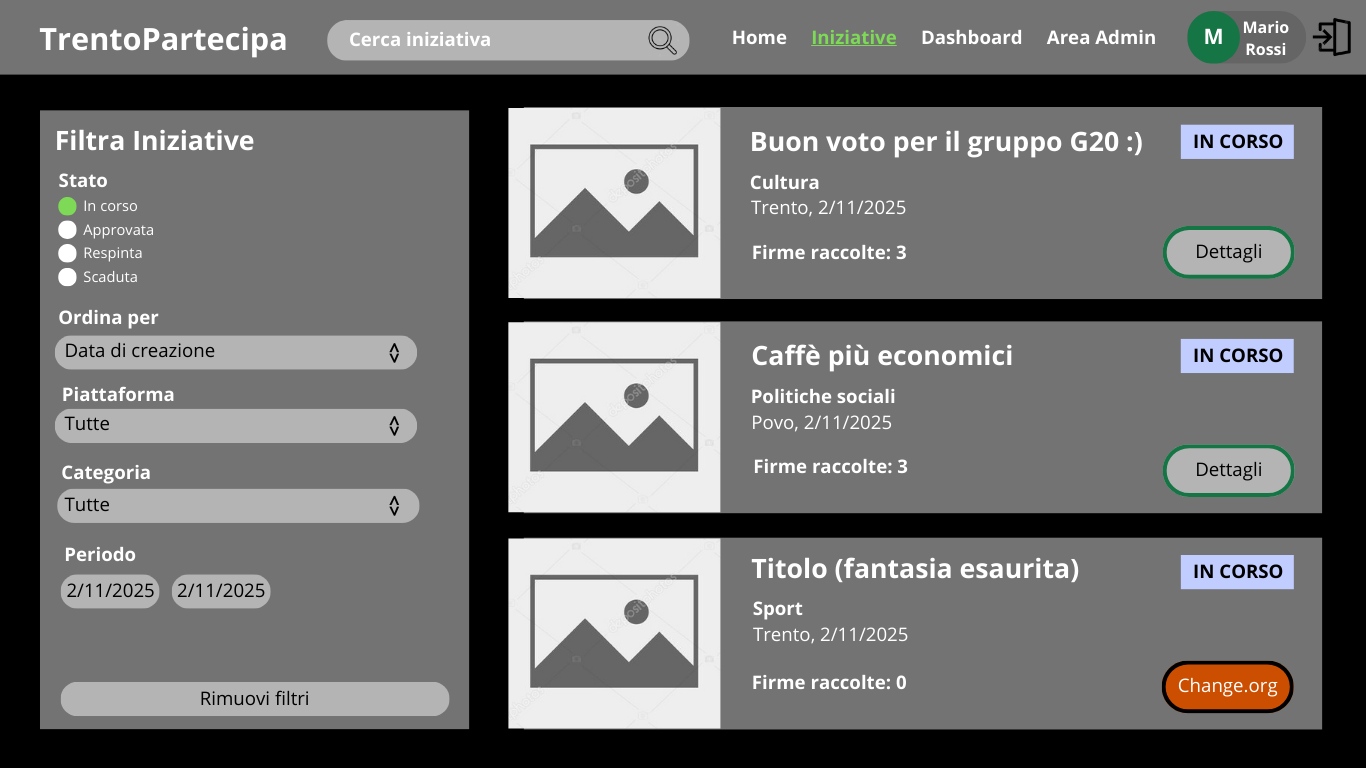
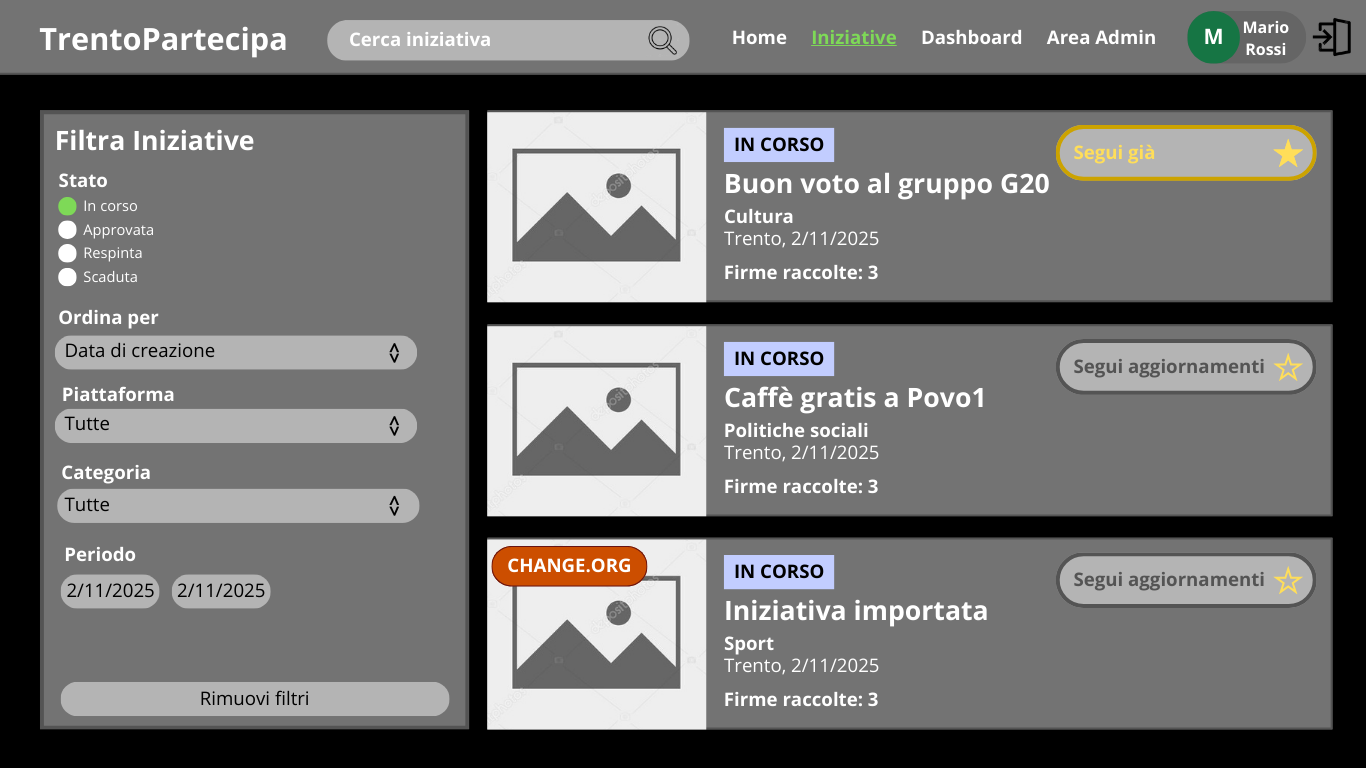
Aggiornato il D1 con le immagini del design del frontend e la correzione delle loro descrizioni

Changed region(s): [[0.0307, 0.125, 0.9839, 0.9688]]

diff --git a/deliverable/D1/sections/DesingFrontEnd.tex b/deliverable/D1/sections/DesingFrontEnd.tex
@@ -4,27 +4,36 @@
 \newline
 Tutte questi mockup rispecchiano il requisito non funzionale di \textbf{Usabilità (RNF\ref{rnf:usabilita}):} l'utilizzo del sistema risulta intuitivo in quanto ogni azione può essere compiuta premendo tasti con indicazioni esplicite sulla loro funzionalità. Inoltre, viene adottato lo stesso insieme di colori per tutte le pagine, offrendo un'esperienza uniforme all'utente. 
 
-\subsection{Schermata Home}
+\subsection{Header}
 \begin{figure}[H]
-    \centering    
-    \includegraphics[width=0.9\linewidth]{img/HomePage.png}
-    \caption{Schermata Home dell'applicazione}
-    \label{fig:home}
+    \centering
+    \includegraphics[width=0.9\linewidth]{img/Header.png}
+    \caption{Header di un cittadino amministratore autenticato}
+    \label{fig:header}
 \end{figure}
-Nella Figura \ref{fig:home} è riportato un mockup di quella che sarà la pagina iniziale dell'applicazione. Essa sarà visibile a tutti gli utenti, autenticati e non, cittadini e amministratori, con le opportune differenze. In questo esempio si assume che l'utente sia autenticato e che abbia sia i privilegi da cittadino che quelli da amministratore. È importante specificare i cambiamenti negli altri casi:
+Nella Figura \ref{fig:header} è riportato un mockup dell'header delle varie pagine dell'applicazione. Poiché viene riportato in tutte le figure successive, è rilevante specificare che il suo aspetto può variare in base all'utente: in questo esempio, infatti, assumiamo che l'utente sia autenticato e abbia sia i privilegi di cittadino che quelli da amministratore. Nella maggioranza dei successivi esempi manterremo questa ipotesi.Negli altri casi:
 \begin{itemize}
     \item Se l'utente non è autenticato, visualizza solo le sezioni "Home" e "Iniziative" nella barra in alto. Inoltre, al posto dell'icona del suo profilo, del suo nome e del pulsante di logout visualizza un pulsante con la scritta "Accedi".
     \item Se l'utente autenticato non è amministratore, non visualizza la sezione "Area Admin".
     \item Se l'utente autenticato non è cittadino, non visualizza la sezione "Dashboard".
-    \item Se l'utente non è autenticato o non ha privilegi da cittadino, non può selezionare un'opzione del sondaggio e non può creare un'iniziativa. Se tenta di compiere queste azioni viene reindirizzato alla schermata di login (Figura \ref{fig:schermata_login})
 \end{itemize}
-Detto ciò, la schermata si riferisce ai seguenti requisiti:
+
+
+\subsection{Home Page}
+\begin{figure}[H]
+    \centering    
+    \includegraphics[width=0.9\linewidth]{img/SchermataHome.png}
+    \caption{Schermata Home dell'applicazione}
+    \label{fig:home}
+\end{figure}
+Nella Figura \ref{fig:home} è riportato un mockup di quella che sarà la pagina iniziale dell'applicazione. Essa sarà visibile a tutti gli utenti, autenticati e non, cittadini e amministratori. La schermata si riferisce ai seguenti requisiti funzionali:
+
 \begin{itemize}
     \item \textbf{RF\ref{rf:login}: Login -} Quando l'utente non è autenticato, in alto a destra è presente il pulsante per fare il login, che porta alla schermata di login mostrata in Figura \ref{fig:schermata_login}.
     \item \textbf{RF\ref{rf:consultazione_iniziative}: Consultazione della lista di iniziative -} Nella Home sono visibili delle iniziative di tendenza, ossia quelle in corso e con il maggior numero di firme. La lista completa di iniziative è visibile nella pagina dedicata (Figura \ref{fig:schermata_iniziative}). 
     \item \textbf{RF\ref{rf:logout}: Logout -} Quando l'utente è autenticato, in alto a destra è presente il pulsante per fare il logout.
-    \item \textbf{RF\ref{rf:voto}: Votazione del bilancio partecipativo -} All'interno della pagina è visibile il bilancio partecipativo attualmente in corso, con tanto di data di scadenza e opzioni. Il cittadino autenticato sarà in grado di interagire con esso selezionando una delle opzioni votabili.
-    \item \textbf{RF\ref{rf:creazione_iniziativa}: Creazione di una iniziativa -} A destra è presente un pulsante che porta il cittadino autenticato alla compilazione dei campi per creare una nuova iniziativa (Figura \ref{fig:schermata_creaz_iniz}).
+    \item \textbf{RF\ref{rf:creazione_iniziativa}: Creazione di una iniziativa -} All'interno della pagina è presente un pulsante che conduce il cittadino autenticato alla compilazione dei campi per creare una nuova iniziativa (Figura \ref{fig:schermata_creaz_iniz}). Se l'utente non è autenticato o non ha privilegi da cittadino, il tentativo di creare un'iniziativa lo conduce alla schermata di login (Figura \ref{fig:schermata_login}).
+    \item \textbf{RF\ref{rf:voto}: Votazione del bilancio partecipativo -} All'interno della pagina è visibile il bilancio partecipativo attualmente in corso, con tanto di data di scadenza e opzioni. Il cittadino autenticato sarà in grado di interagire con esso selezionando una delle opzioni votabili. Se l'utente non è autenticato o non ha privilegi da cittadino, il tentativo di votare lo conduce alla schermata di login (Figura \ref{fig:schermata_login}).
 \end{itemize}
 
 \subsection{Schermata di login}
@@ -34,26 +43,26 @@ Detto ciò, la schermata si riferisce ai seguenti requisiti:
     \caption{Schermata di login}
     \label{fig:schermata_login}
 \end{figure}
-Nella Figura \ref{fig:schermata_login} è riportato un mockup della schermata di accesso all'applicazione, dove l'utente potrà scegliere se eseguire l'accesso tramite SPID o CIE. La schermata si riferisce a \textbf{RF\ref{rf:login}: Login}. Notare che poiché il login viene fatto da un utente non autenticato, l'header riporta le sezioni "Home", "Iniziative" e il pulsante "Accedi" che è stato clickato per raggiungere questa schermata.
+Nella Figura \ref{fig:schermata_login} è riportato un mockup della schermata di accesso all'applicazione, dove l'utente potrà scegliere se eseguire l'accesso tramite SPID o CIE. La schermata si riferisce a \textbf{RF\ref{rf:login}: Login}. Notare che poiché il login viene fatto da un utente non autenticato, l'header riporta le sezioni "Home", "Iniziative" e il pulsante "Accedi" che è stato clickato per raggiungere questa schermata. Se l'utente sta compiendo il suo primo accesso, viene condotto alla schermata in Figura \ref{fig:schermataprofilo}.
 
+\newpage
 \subsection{Schermata di creazione di un nuovo profilo}
 \begin{figure}[H]
     \centering
-    \includegraphics[width=0.7\linewidth]{img/CreaProfilo1.png}
-    \label{fig:schermataprofilo1}
+    \includegraphics[width=0.8\linewidth]{img/SchermataCreaProfilo1.png}
 \end{figure}
 \begin{figure}[H]
     \centering
-    \includegraphics[width=0.7\linewidth]{img/CreaProfilo2.png}
+    \includegraphics[width=0.8\linewidth]{img/SchermataCreaProfilo2.png}
     \caption{Schermata di creazione di un nuovo profilo}
-    \label{fig:schermataprofilo2}
+    \label{fig:schermataprofilo}
 \end{figure}
-La Figura \ref{fig:schermataprofilo2} mostra le due fasi di creazione di un nuovo profilo (\textbf{RF\ref{rf:creazione_profilo}: Creazione profilo al primo accesso}). Una volta autenticato tramite SPID/CIE, all'utente non resta che inserire e confermare il suo recapito mail.
+La Figura \ref{fig:schermataprofilo} mostra le due fasi di creazione di un nuovo profilo (\textbf{RF\ref{rf:creazione_profilo}: Creazione profilo al primo accesso}). Una volta autenticato tramite SPID/CIE, all'utente non resta che inserire e confermare il suo recapito mail.
 
 \subsection{Schermata di creazione di una nuova iniziativa}
 \begin{figure}[H]
     \centering
-    \includegraphics[width=0.9\linewidth]{img/CreaIniziativa.png}
+    \includegraphics[width=0.9\linewidth]{img/SchermataCreaIniziativa.png}
     \caption{Schermata di creazione di una nuova iniziativa}
     \label{fig:schermata_creaz_iniz}
 \end{figure}
@@ -66,51 +75,61 @@ Nella Figura \ref{fig:schermata_creaz_iniz} è riportato un mockup della scherma
     \caption{Schermata di visualizzazione delle iniziative}
     \label{fig:schermata_iniziative}
 \end{figure}
-Nella Figura \ref{fig:schermata_iniziative} viene riportato il mockup della pagina di consultazione e ricerca delle iniziative.
+Nella Figura \ref{fig:schermata_iniziative} viene riportato un mockup della pagina di consultazione e ricerca delle iniziative.
 \begin{itemize}
     \item \textbf{RF\ref{rf:consultazione_iniziative}: Consultazione della lista di iniziative -} Da questa pagina ogni utente può visualizzare la lista completa di iniziative presenti nell'applicazione, riportanti delle informazioni base quali titolo, stato, numero di firme, ecc. A sinistra sono presenti le varie opzioni di filtraggio e ordinamento e in alto, nell'header, è presente una barra di ricerca per la ricerca di iniziative tramite parole chiave.
-    \item \textbf{RF\ref{rf:ciclo_vita_stati}: Ciclo di vita degli stati -} Ogni iniziativa riporta una label che ne indica lo stato attuale (in corso, respinta, approvata o scaduta). I possibili valori dello stato sono anche criteri di ricerca nei filtri. 
-    \item \textbf{RF\ref{rf:import_dati_esterni}: Importazione dati esterni -} Le iniziative importate da fonti esterne presentano, al posto del pulsante "Dettagli" per aprire la pagina di dettaglio, un pulsante che reindirizza alla pagina di dettaglio nel sito di provenienza, dove l'utente potrà eventualmente firmarla come specificato in RF\ref{rf:firma}.
+    \item \textbf{RF\ref{rf:tracciamento_stato}: Tracciamento stato -} Ogni iniziativa riporta un pulsante che permette all'utente di seguirla, ossia di aggiungerla alla propria dashboard personale per tracciarne lo stato. Se l'utente non è autenticato o non ha i privilegi da cittadino, il tentativo di seguire un'iniziativa lo conduce alla schermata di login (Figura \ref{fig:schermata_login}). 
+    \item \textbf{RF\ref{rf:import_dati_esterni}: Importazione dati esterni -} Le iniziative importate da fonti esterne presentano una label che ne indica esplicitamente la piattaforma di provenienza.    
+    \item \textbf{RF\ref{rf:ciclo_vita_stati}: Ciclo di vita degli stati -} Ogni iniziativa riporta una label che ne indica lo stato attuale ("In corso", "Respinta", "Approvata" o "Scaduta"). I possibili valori dello stato sono anche criteri di ricerca nei filtri. 
 \end{itemize}
+Selezionando una delle iniziative, l'utente viene condotto alla schermata in Figura \ref{fig:schermata_iniziativasingola}.
 
 
 \subsection{Schermata di visualizzazione della singola iniziativa}
 \begin{figure}[H]
     \centering    
-    \includegraphics[width=0.9\linewidth]{img/SingolaIniziativa.png}
-    \caption{Schermata di visualizzazione della singola iniziativa}
+    \includegraphics[width=0.9\linewidth]{img/SchermataSingolaIniziativa.png}
+    \caption{Schermata di visualizzazione di una singola iniziativa}
     \label{fig:schermata_iniziativasingola}
 \end{figure}
-Nella Figura \ref{fig:schermata_iniziativasingola} è riportato il mockup della pagina che si apre quando un utente seleziona un'iniziativa interna (preme il pulsante "Dettagli"). In questo esempio l'utente segue lo stato di avanzamento dell'iniziativa, l'ha firmata ed è ancora in corso, senza risposte ufficiali dal Comune. Se l'utente non è un cittadino autenticato non può interagire con i pulsanti per firmare/seguire l'iniziativa.
+Nella Figura \ref{fig:schermata_iniziativasingola} è riportato un mockup della pagina che si apre quando un utente seleziona un'iniziativa. Oltre ai requisiti funzionali di \textbf{Tracciamento stato (RF\ref{rf:tracciamento_stato}), Importazione dati esterni (RF\ref{rf:import_dati_esterni}) e Ciclo di vita degli stati (RF\ref{rf:ciclo_vita_stati})}, già discussi parlando della schermata di visualizzazione della lista di iniziative in Figura \ref{fig:schermata_iniziative}, questa schermata si riferisce anche ai seguenti:
 \begin{itemize}
-    \item \textbf{RF\ref{rf:consultazione_singola_iniz}: Consultazione di una singola iniziativa -} La schermata rappresenta la pagina di dettaglio descritta nel requisito funzionale. Vengono riportati i vari dati generali, le informazioni sullo stato e le eventuali risposte.
-    \item \textbf{RF\ref{rf:firma}: Firma -} L'utente può firmare l'iniziativa visualizzata premendo un tasto (nella figura è stato già premuto).
-    \item \textbf{RF\ref{rf:tracciamento_stato}: Tracciamento stato -} In alto a destra è presente un pulsante che permette all'utente di seguire l'iniziativa, aggiungendola alla sua dashboard personale.
+    \item \textbf{RF\ref{rf:consultazione_singola_iniz}: Consultazione di una singola iniziativa -} La schermata rappresenta la pagina di dettaglio descritta nel requisito funzionale. Vengono riportati i vari dati generali, le informazioni sullo stato e le eventuali risposte (Figura \ref{fig:risposta_pubblicata}).
+    \item \textbf{RF\ref{rf:firma}: Firma -} L'utente può firmare l'iniziativa visualizzata premendo un apposito pulsante. Nel caso l'iniziativa sia stata importata da un'altra piattaforma, il pulsante per firmare ha l'effetto di reindirizzare l'utente alla piattaforma di provenienza (Figura \ref{fig:schermata_inizsingola_esterna}). Se l'utente non è autenticato o non ha i privilegi da cittadino, il tentativo di firmare un'iniziativa lo conduce alla schermata di login (Figura \ref{fig:schermata_login}).
 \end{itemize}
-
+\begin{figure}[H]
+    \centering
+    \includegraphics[width=0.3\linewidth]{img/SchermataSingolaInizEsterna.png}
+    \caption{Pulsante per firmare un'iniziativa importata (sostituisce il pulsante "Firma")}
+    \label{fig:schermata_inizsingola_esterna}
+\end{figure}
 
 \subsection{Dashboard personale}
 \begin{figure}[H]
+    \centering
+    \includegraphics[width=0.9\linewidth]{img/SchermataDashboardIniziative.png}
+\end{figure}
+\begin{figure}[H]
     \centering    
-    \includegraphics[width=0.9\linewidth]{img/Dashboard.png}
+    \includegraphics[width=0.9\linewidth]{img/SchermataDashboardNotifiche.png}
     \caption{Dashboard personale}
     \label{fig:schermata_dashboard}
 \end{figure}
-Nella Figura \ref{fig:schermata_dashboard} è riportato un mockup della schermata in cui è presente la dashboard personale del cittadino autenticato (\textbf{RF\ref{rf:dashboard_personale}: Dashboard personale}). Come specificato nel requisito funzionale, da questa schermata l'utente può visualizzare le iniziative da lui create, firmate e seguite e le notifiche che gli sono arrivate.
+Nella Figura \ref{fig:schermata_dashboard} vengono riportati dei mockup della dashboard personale del cittadino autenticato (\textbf{RF\ref{rf:dashboard_personale}: Dashboard personale}). Come specificato nel requisito funzionale, da questa schermata l'utente può visualizzare le iniziative da lui create, firmate e seguite e le notifiche che gli sono arrivate.
 
 \subsection{Area Admin}
 \begin{figure}[H]
     \centering    
-    \includegraphics[width=0.9\linewidth]{img/AreaAdmin.png}
+    \includegraphics[width=0.9\linewidth]{img/SchermataAreaAdmin.png}
     \caption{Area admin}
     \label{fig:area_admin}
 \end{figure}
-Nella Figura \ref{fig:area_admin} è riportato un mockup dell'area admin di un utente amministratore, ossia un pannello di controllo dal quale egli può scegliere che attività fare. Selezionando una tra le quattro aree l'utente sarà ricondotto alla pagina dedicata a quell'attività. Le pagine in questione sono descritte di seguito (Figure \ref{fig:monitoraggio_scadenze}, \ref{fig:creabilancio}, \ref{fig:archivioBP}).
+Nella Figura \ref{fig:area_admin} è riportato un mockup dell'area admin di un utente amministratore, ossia un pannello di controllo dal quale egli può scegliere che attività svolgere. Selezionando una tra le quattro aree l'utente sarà ricondotto alla pagina dedicata a quell'attività. Le pagine in questione sono descritte di seguito (Figure \ref{fig:monitoraggio_scadenze}, \ref{fig:creabilancio}, \ref{fig:schermata_lista_admin} e \ref{fig:archivioBP}).
 
 \subsection{Schermata di monitoraggio delle iniziative}
 \begin{figure}[H]
     \centering    
-    \includegraphics[width=0.9\linewidth]{img/MonitoraggioScadenze.png}
+    \includegraphics[width=0.9\linewidth]{img/SchermataMonitoraggioScadenze.png}
     \caption{Schermata di monitoraggio delle iniziative}
     \label{fig:monitoraggio_scadenze}
 \end{figure}
@@ -123,22 +142,46 @@ Nella Figura \ref{fig:monitoraggio_scadenze} è riportato un mockup della scherm
     \caption{Schermata di compilazione di una risposta del Comune}
     \label{fig:schermata_risposta}
 \end{figure}
-Nella Figura \ref{fig:schermata_risposta} è riportato un mockup del box che l'utente visualizza sotto le informazioni di un iniziativa quando preme il pulsante "Rispondi". L'amministratore può decidere se respingere o approvare l'iniziativa, allegando eventuali documenti e riportando una motivazione scritta.
+Nella Figura \ref{fig:schermata_risposta} è riportato un mockup del box che l'utente amministratore visualizza sotto le informazioni di un iniziativa quando preme il pulsante "Rispondi". L'amministratore può decidere se respingere o approvare l'iniziativa, allegando eventuali documenti e riportando una motivazione scritta. Dopo la pubblicazione della riposta, questa viene riportata nella pagina di dettaglio dell'iniziativa:
+\begin{figure}[H]
+    \centering
+    \includegraphics[width=0.9\linewidth]{img/SchermataInizConRisposta.png}
+    \caption{Risposta del Comune all'iniziativa}
+    \label{fig:risposta_pubblicata}
+\end{figure}
 
 \subsection{Schermata di creazione del bilancio partecipativo}
 \begin{figure}[H]
     \centering    
-    \includegraphics[width=0.9\linewidth]{img/CreaBP.png}
+    \includegraphics[width=0.9\linewidth]{img/SchermataCreaBP.png}
     \caption{Schermata di creazione di un nuovo bilancio partecipativo}
     \label{fig:creabilancio}
 \end{figure}
 Nella Figura \ref{fig:creabilancio} è riportato il mockup dell'interfaccia di creazione di un bilancio partecipativo (\textbf{RF\ref{rf:creazione_bilancio_partecipativo}: Creazione bilancio partecipativo}). Come specificato, l'amministratore deve compilare i campi "Titolo" e "Data di scadenza" e aggiungere poi le varie opzioni di voto.
 
+\subsection{Schermata di gestione del personale}
+\begin{figure}[H]
+    \centering
+    \includegraphics[width=0.9\linewidth]{img/SchermataListaAdmin.png}
+    \caption{Schermata di gestione del personale}
+    \label{fig:schermata_lista_admin}
+\end{figure}
+Nella Figura \ref{fig:schermata_lista_admin} è riportato il mockup della pagina dalla quale un utente amministratore può visualizzare la lista completa degli utenti amministratori (\textbf{RF\ref{rf:ruoli_amministrativi}: Gestione ruoli amministrativi}). Per ogni utente nella lista (escluso l'utente stesso) è presente un pulsante per revocargli i privilegi da amministratore (\textbf{RF\ref{subRf:revoca_previlegi}}), e tramite un apposito tasto (\textbf{"+"} in figura) l'utente può digitare il codice fiscale di un utente da rendere amministratore (\textbf{RF\ref{subRf:assegnazione_privilegi}}).
+\begin{figure}[H]
+    \centering
+    \includegraphics[width=0.9\linewidth]{img/SchermataRicercaCF.png}
+\end{figure}
+
 \subsection{Archivio dei bilanci partecipativi}
 \begin{figure}[H]
     \centering    
-    \includegraphics[width=0.9\linewidth]{img/archivioBP.png}
+    \includegraphics[width=0.9\linewidth]{img/SchermataArchivioBP.png}
     \caption{Archivio dei bilanci partecipativi}
     \label{fig:archivioBP}
 \end{figure}
 Nella Figura \ref{fig:archivioBP} è riportato un mockup dell'archivio dei bilanci partecipativi passati, visualizzabile dagli utenti amministratori (\textbf{RF\ref{rf:consultazione_archivio_bilancio_partecipativo}: Consultazione archivio bilanci partecipativi}). L'amministratore può visualizzarne i titoli, la data in cui si sono conclusi, le opzioni e i risultati, premendo gli appositi pulsanti.
+\begin{figure}[H]
+    \centering
+    \includegraphics[width=0.7\linewidth]{img/SchermataRisultatiBP.png}
+    \caption{Risultati di un bilancio partecipativo concluso}
+\end{figure}

diff --git a/deliverable/D1/sections/RF.tex b/deliverable/D1/sections/RF.tex
@@ -80,15 +80,15 @@ una data di scadenza per la votazione, assicurando il periodo di apertura non si
 \label{rf:consultazione_archivio_bilancio_partecipativo}
 Il sistema deve fornire al personale dell'Amministrazione una sezione dedicata alla consultazione dell'archivio storico di tutti i bilanci partecipativi conclusi. Tale interfaccia deve essere accessibile esclusivamente agli utenti "amministratore". Per ogni bilancio archiviato, il sistema deve visualizzare in modo chiaro i dettagli della consultazione passata, includendo la domanda che era stata proposta, l'elenco delle opzioni disponibili e il relativo periodo di votazione. La vista dovrà riportare anche i risultati finali, specificando il numero totale di votanti e la distribuzione dei voti, sia in numero assoluto che in percentuale, per ciascuna opzione.
 
-\RF{Gestione Ruoli Amministrativi} 
+\RF{Gestione ruoli amministrativi} 
 \label{rf:ruoli_amministrativi}
 Il sistema deve fornire agli utenti Amministratori un'interfaccia dedicata per la gestione dei privilegi amministrativi della piattaforma.
 
-\subRF{Visualizzazione e Ricerca Utenti.}
+\subRF{Visualizzazione e ricerca utenti.}
     \label{subRf:ricerca_utenti}
 Il sistema deve permettere a un Amministratore di visualizzare un elenco completo di tutti gli utenti che attualmente possiedono il ruolo di ``Amministratore'' ed utilizzare una funzione di ricerca tramite \textbf{Codice Fiscale} per identificare un utente da promuovere o pre-autorizzare.
 
-\subRF{Assegnazione Privilegi e Pre-Autorizzazione.}
+\subRF{Assegnazione privilegi e pre-autorizzazione.}
     \label{subRf:assegnazione_privilegi}
 Una volta inserito un Codice Fiscale (tramite RF\ref{subRf:ricerca_utenti}), il sistema verifica l'esistenza dell'utente nel database:
 \begin{itemize}
@@ -97,7 +97,7 @@ Una volta inserito un Codice Fiscale (tramite RF\ref{subRf:ricerca_utenti}), il 
 \end{itemize}
 L'utente promosso (o l'utente pre-autorizzato che effettua il primo accesso) ottiene immediatamente accesso a tutte le funzionalità riservate agli Amministratori (definite nella sezione: \ref{sec:RF_amministrazione}).
 
-\subRF{Revoca Privilegi.}
+\subRF{Revoca privilegi.}
     \label{subRf:revoca_previlegi}
 L'Amministratore deve poter selezionare un utente dall'elenco degli amministratori (RF\ref{subRf:ricerca_utenti}) e revocare il suo ruolo di ``Amministratore''.
 \begin{itemize}
@@ -107,7 +107,7 @@ L'Amministratore deve poter selezionare un utente dall'elenco degli amministrato
 \end{itemize}
 Per ragioni di sicurezza, un Amministratore non può revocare i privilegi a sé stesso.
 
-\subRF{Bootstrapping Amministratore.}
+\subRF{Bootstrapping amministratore.}
     \label{subRf:bootstrapping_amministratore}
 L'esistenza del primo utente Amministratore ("super-utente") è garantita dalla configurazione manuale nel database al momento dell'installazione della piattaforma.
 Questo utente sarà il primo a poter utilizzare RF\ref{subRf:assegnazione_privilegi} per nominare altri amministratori.

diff --git a/deliverable/D1/sections/Il_nostro_progetto.tex b/deliverable/D1/sections/Il_nostro_progetto.tex
@@ -1,4 +1,4 @@
-\section{Il progetto "Trento Partecipa"}%scritte da alessandro
+\section{Il progetto Trento Partecipa}%scritte da alessandro
 I principali problemi che ci siamo posti di risolvere sono la 
 frammentazione delle raccolte firme tra le varie piattaforme (Change.org ecc.) e lo scarso coinvolgimento della popolazione nella vita politica. Attualmente nel Comune di Trento non esiste uno strumento unico e dedicato che raccolga tutte le richieste dei cittadini, e questo genera svantaggi sia per il Comune che per i cittadini.
 

diff --git a/deliverable/D1/D1main.tex b/deliverable/D1/D1main.tex
@@ -119,9 +119,9 @@
 
 %\include{sections/Il_nostro_progetto}
 \include{sections/RF}
-%\include{sections/RNF}
+\include{sections/RNF}
 %\include{sections/UD}
-\include{sections/US}
+%\include{sections/US}
 \include{sections/DesingFrontEnd}
 
 \end{document}
